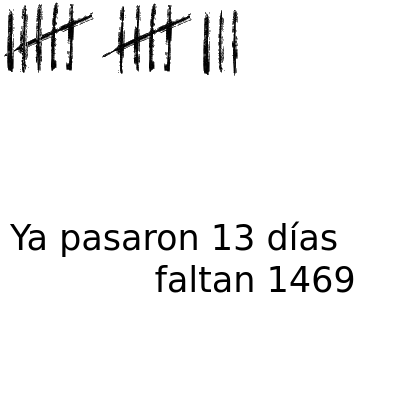
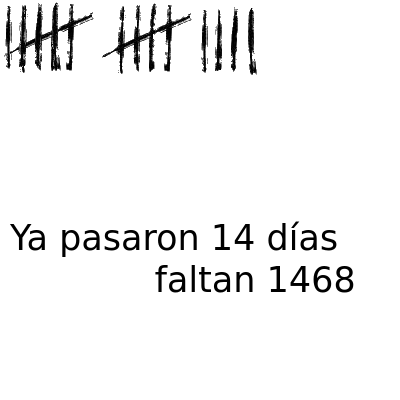
deploy: 28882f26f23b9f53dac6c4991168e610486d0e44

diff --git a/index.html b/index.html
@@ -3,19 +3,19 @@
   <head>
     <meta charset='utf-8'>
     <meta http-equiv='X-UA-Compatible' content='IE=edge'>
-    <title>Ya pasaron 13 días y faltan 1469</title>
-    <meta name="description" content="Ya pasaron 13 días y faltan 1469">
-    <meta itemprop="name" content="Ya pasaron 13 días y faltan 1469">
-    <meta itemprop="description" content="Ya pasaron 13 días y faltan 1469">
+    <title>Ya pasaron 14 días y faltan 1468</title>
+    <meta name="description" content="Ya pasaron 14 días y faltan 1468">
+    <meta itemprop="name" content="Ya pasaron 14 días y faltan 1468">
+    <meta itemprop="description" content="Ya pasaron 14 días y faltan 1468">
     <meta name="twitter:card" content="summary">
-    <meta name="twitter:title" content="Ya pasaron 13 días y faltan 1469">
-    <meta name="twitter:description" content="Ya pasaron 13 días y faltan 1469">
+    <meta name="twitter:title" content="Ya pasaron 14 días y faltan 1468">
+    <meta name="twitter:description" content="Ya pasaron 14 días y faltan 1468">
     <meta name="twitter:creator" content="@FloriusWasTaken">
     <meta name="twitter:image" content="https://pasaron.meme.ar/capture.png">
-    <meta property="og:title" content="Ya pasaron 13 días y faltan 1469">
-    <meta property="og:description" content="Ya pasaron 13 días y faltan 1469">
+    <meta property="og:title" content="Ya pasaron 14 días y faltan 1468">
+    <meta property="og:description" content="Ya pasaron 14 días y faltan 1468">
     <meta property="og:url" content="https://pasaron.meme.ar">
-    <meta property="og:site_name" content="Ya pasaron 13 días y faltan 1469">
+    <meta property="og:site_name" content="Ya pasaron 14 días y faltan 1468">
     <meta property="og:type" content="website">
     <meta property="og:image" content="https://pasaron.meme.ar/capture.png">
     <meta name="theme-color" content="#dc143c">
@@ -69,18 +69,18 @@
         padding: 0;
       }
     </style>
-    <title>Ya pasaron 13 días y faltan 1469</title>
+    <title>Ya pasaron 14 días y faltan 1468</title>
   </head>
   <body>
     <div id="main">
       <img src="img/5.png"/><img src="img/5.png"/>
       
-        <img src="img/3.png"/>
+        <img src="img/4.png"/>
       
     </div>
     <footer id="footer">
       <marquee id="marquee" class="is-vertical-align">
-        Ya pasaron 13 días y faltan 1469
+        Ya pasaron 14 días y faltan 1468
       </marquee>
       <ul>
         <li>
